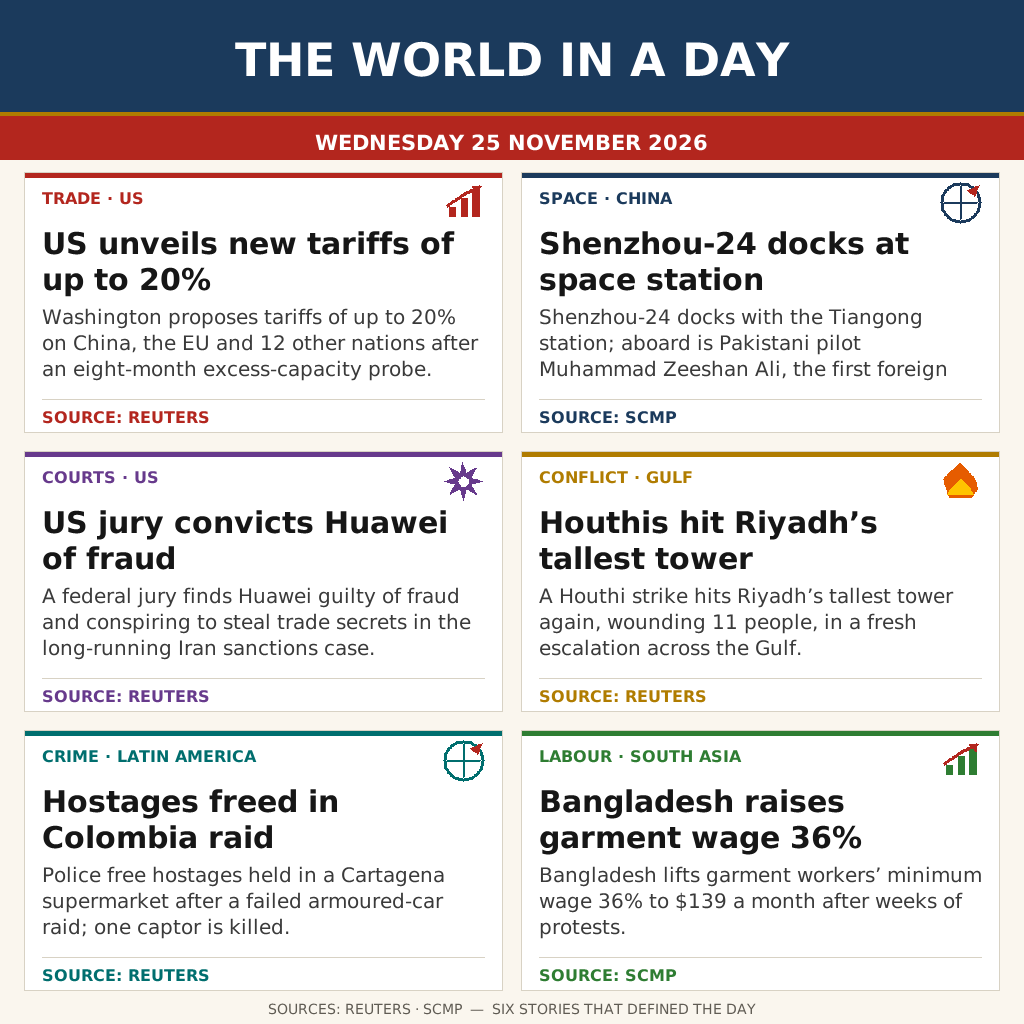
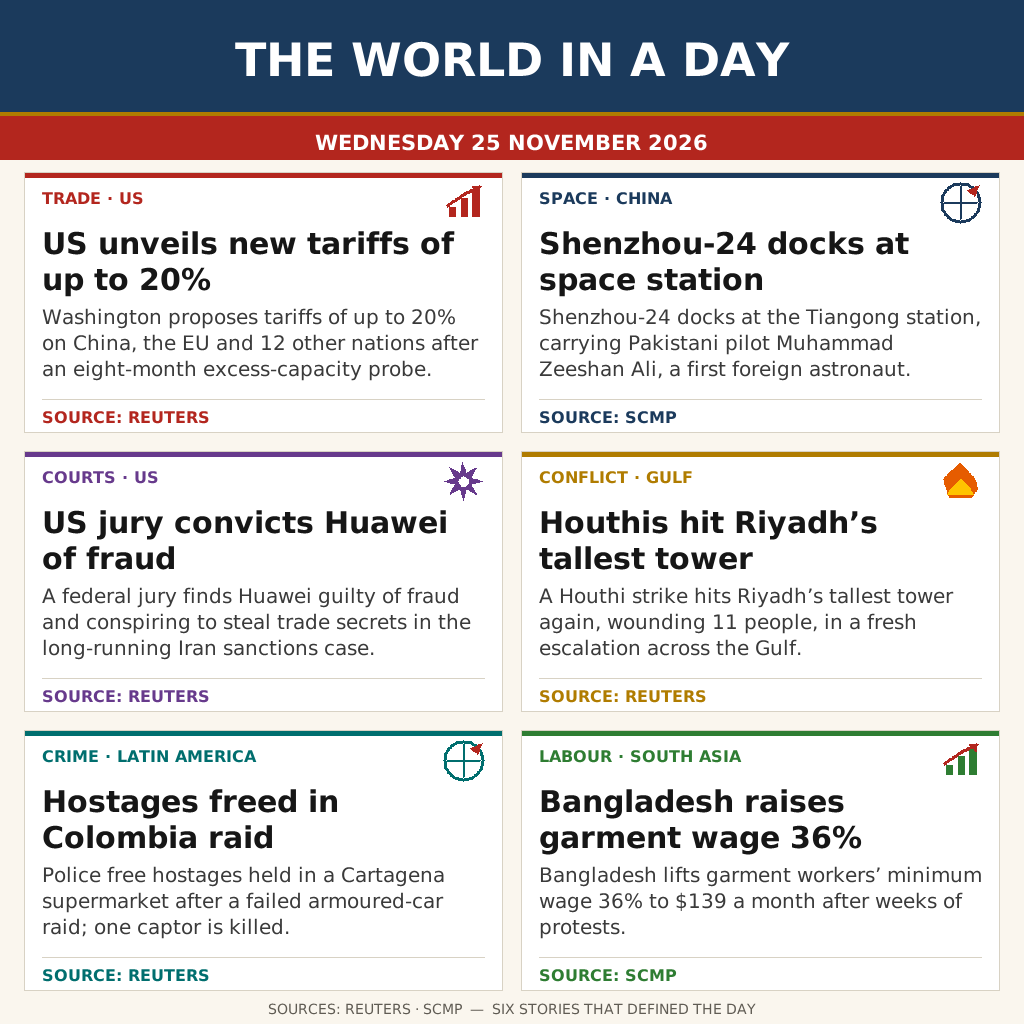
Rewrite main.py in full for 25 Nov edition; fix stale docstring; add layout guard; shorten Shenzhou summary the guard caught clipping

Changed region(s): [[0.5312, 0.2812, 0.9375, 0.375]]

diff --git a/main.py b/main.py
@@ -1,14 +1,13 @@
 #!/usr/bin/env python3
-"""Draw the world news of Tuesday 24 November 2026 as one 1024x1024 image.
+"""Draw the world news of Wednesday 25 November 2026 as one 1024x1024 image.
 
 Pure Python standard library: no Pillow, no network, no randomness.
 Reads fonts.bin (bitmap glyphs extracted from local DejaVu fonts) from the
 same directory, renders six verified news cards onto an RGB framebuffer,
 and writes entry.png (1024x1024) to $MAKEFUN_OUTPUT_DIR (default /output).
 
-The six stories were verified against wire reports (AP, Reuters, AFP,
-Xinhua) on 24 November 2026: each either happened or was first reported
-that day.
+The six stories were verified against wire reports (Reuters, SCMP) on
+25 November 2026: each either happened or was first reported that day.
 """
 
 import math
@@ -42,8 +41,8 @@ CARDS = [
      "REUTERS", "chart"),
     ("SPACE \u00b7 CHINA", NAVY,
      "Shenzhou-24 docks at space station",
-     "Shenzhou-24 docks with the Tiangong station; aboard is Pakistani "
-     "pilot Muhammad Zeeshan Ali, the first foreign astronaut.",
+     "Shenzhou-24 docks at the Tiangong station, carrying Pakistani "
+     "pilot Muhammad Zeeshan Ali, a first foreign astronaut.",
      "SCMP", "globe"),
     ("COURTS \u00b7 US", PLUM,
      "US jury convicts Huawei of fraud",
@@ -406,6 +405,11 @@ def build():
     cw = (W - margin * 2 - gap) // 2
     ch = 261
     top = 172
+    # guard: no headline may exceed its 2 lines and no summary its 3,
+    # so an over-long text fails loudly here instead of clipping silently
+    for card in CARDS:
+        assert len(txt.wrap("bold30", card[2], cw - 36)) <= 2, card[2]
+        assert len(txt.wrap("reg20", card[3], cw - 36)) <= 3, card[2]
     for i, card in enumerate(CARDS):
         col = i % 2
         row = i // 2
